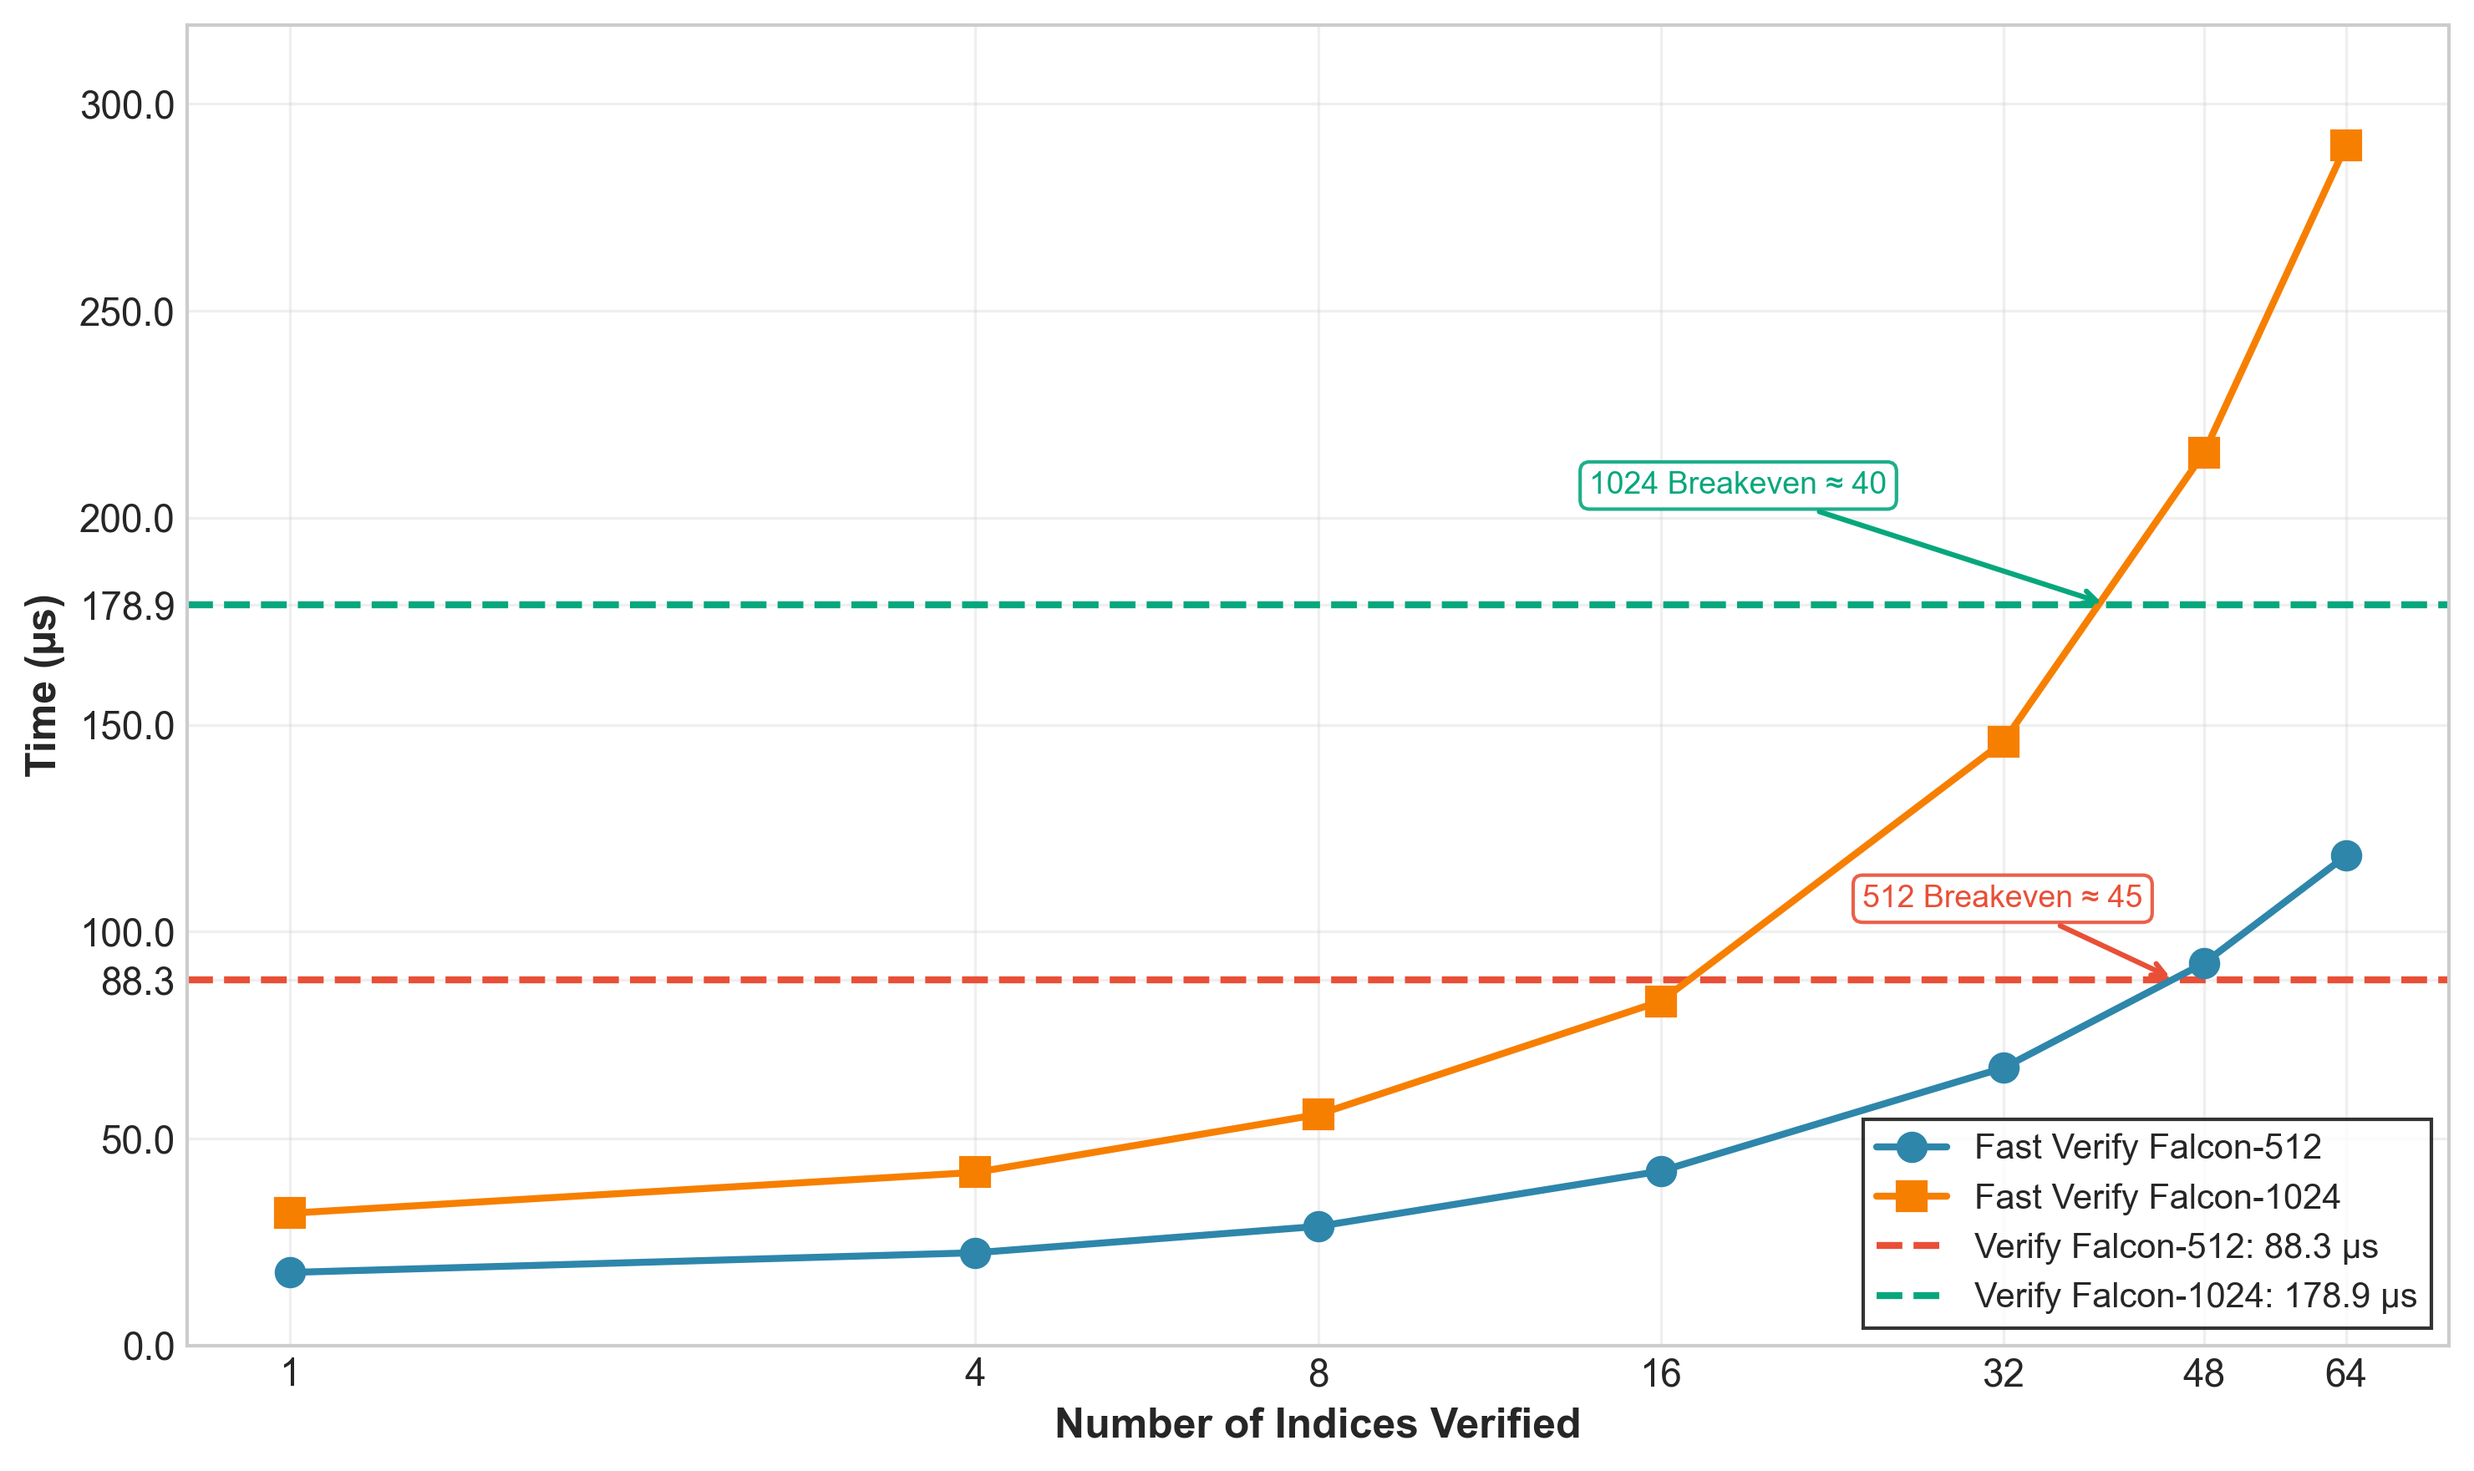
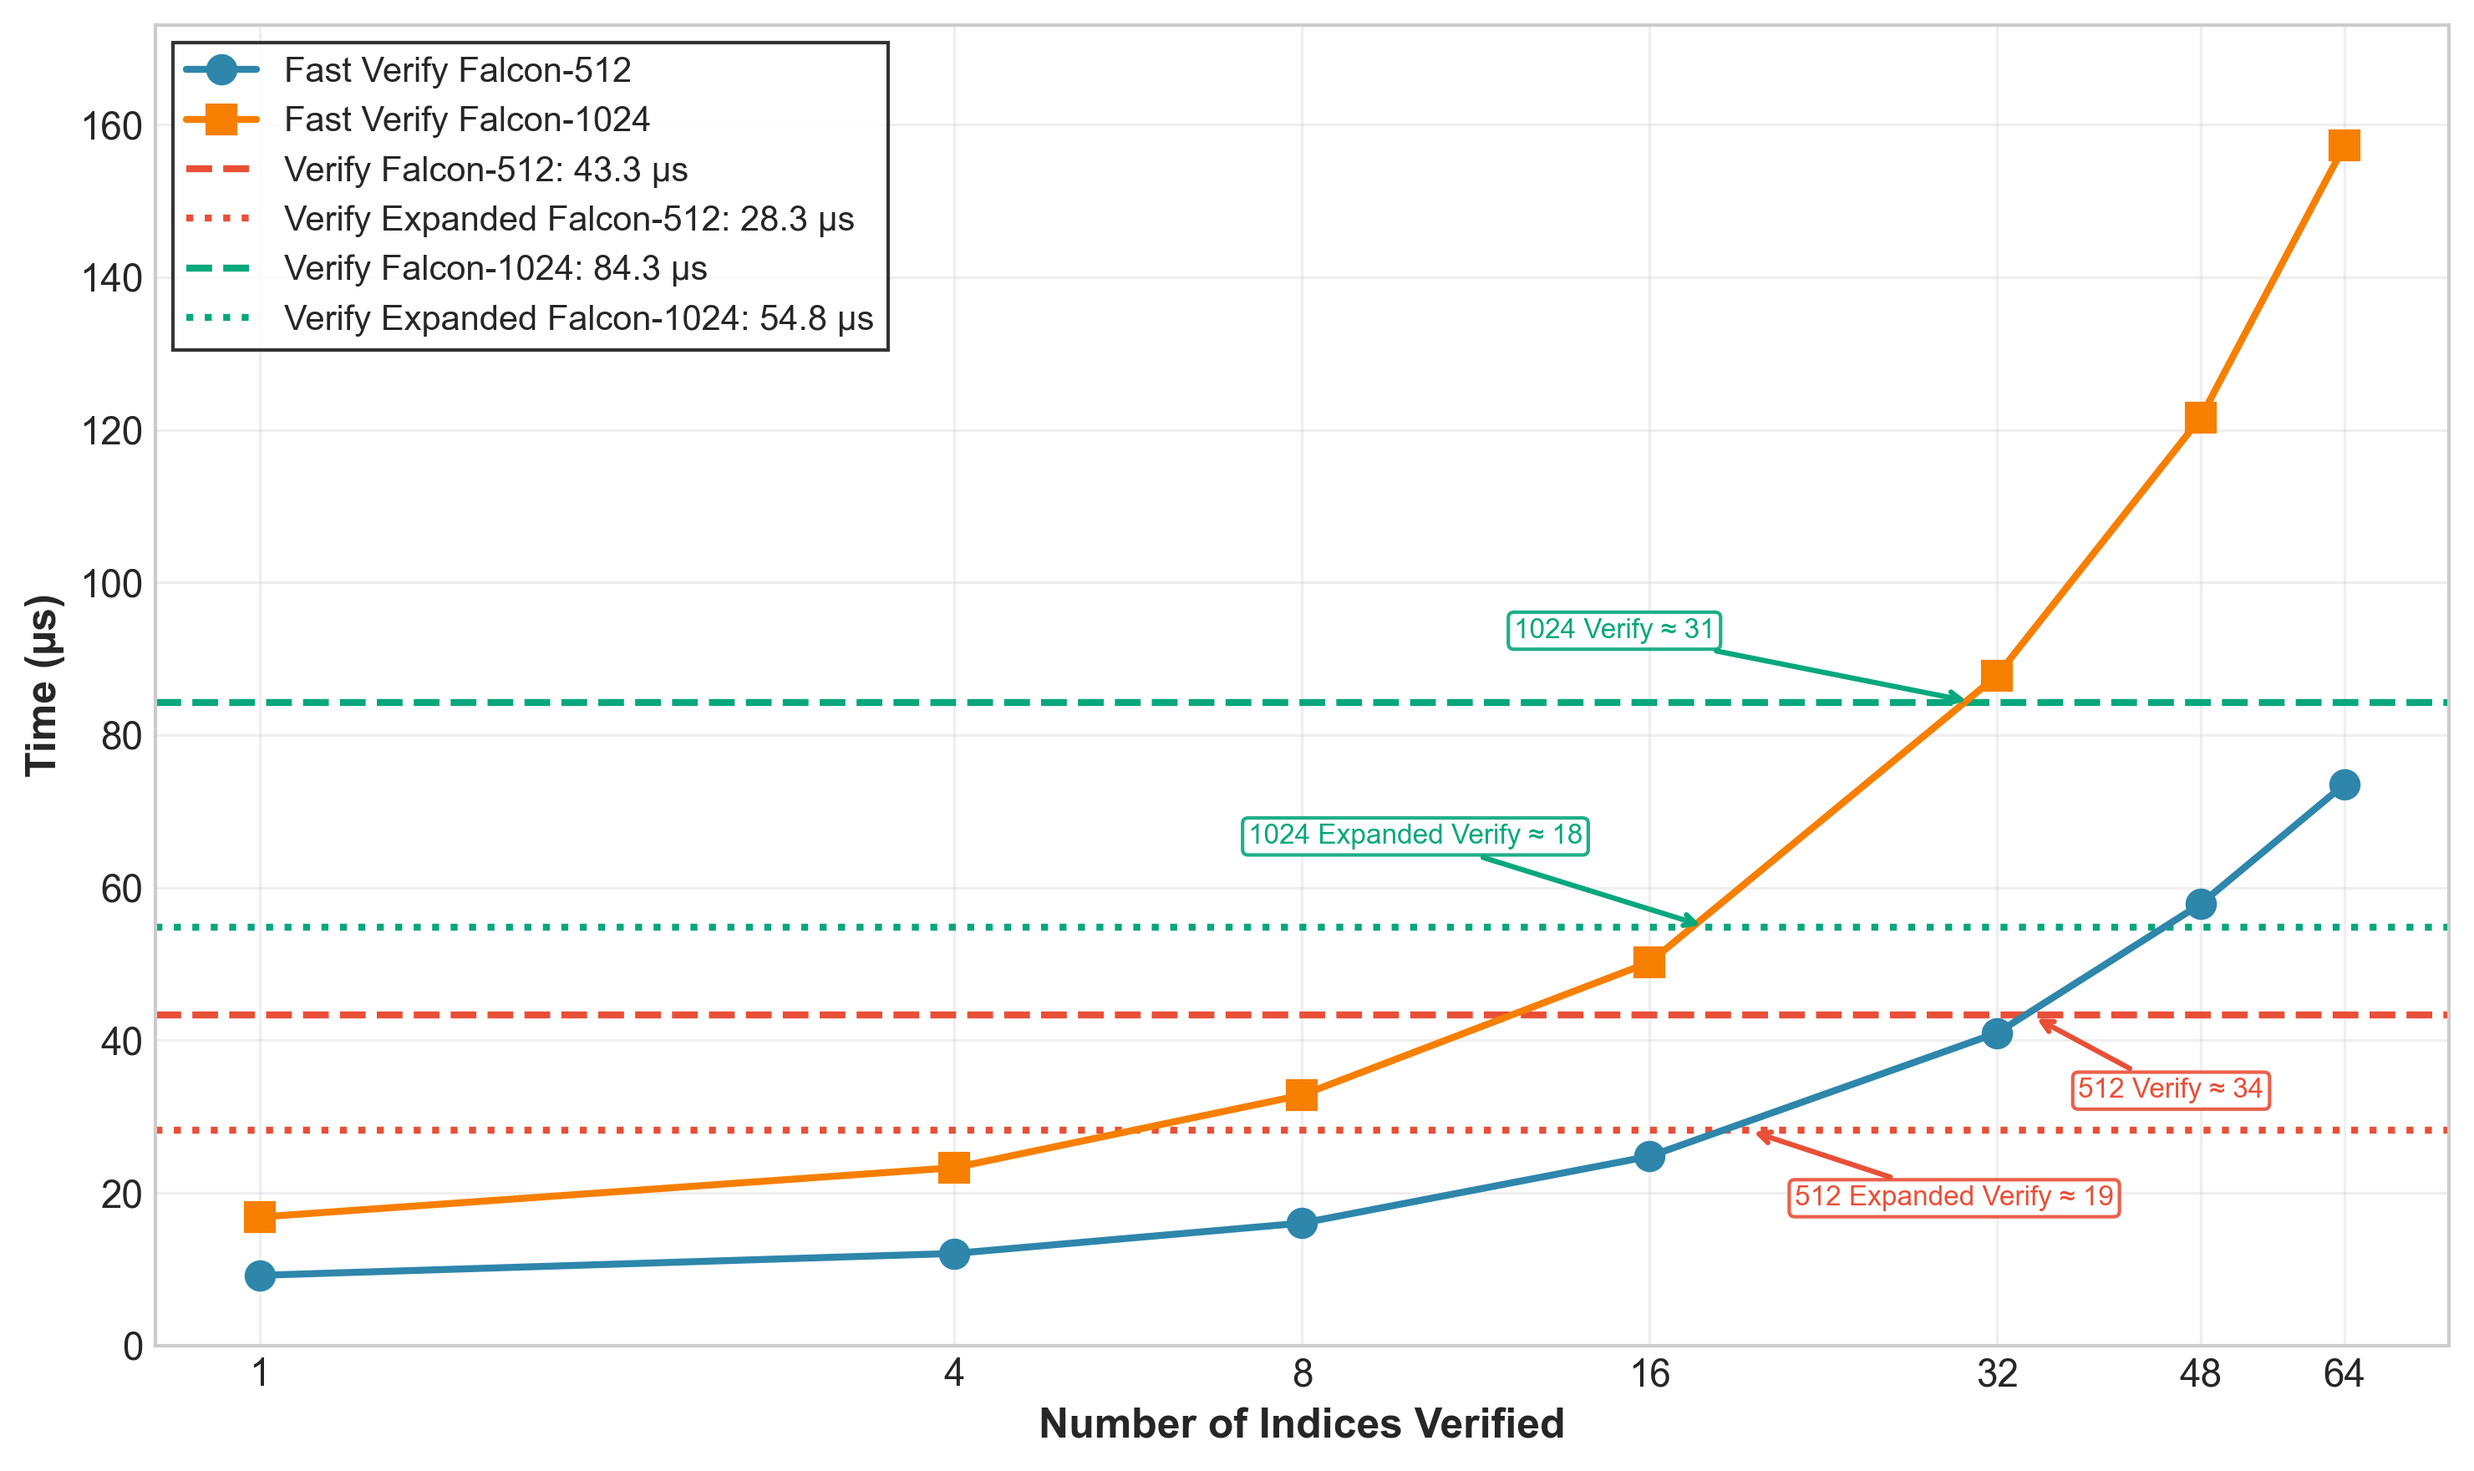
added expanded verify lines

diff --git a/plotting/plot_fverify_benchmark.py b/plotting/plot_fverify_benchmark.py
@@ -93,6 +93,16 @@ def main():
     verify_1024_path = criterion_dir / "falcon-rust" / "verify 1024"
     verify_1024 = load_criterion_estimate(verify_1024_path)
     print(f"verify 1024: {verify_1024['mean']/1000:.2f} µs")
+
+    # Load baseline verify 512 expanded
+    verify_512_expanded_path = criterion_dir / "falcon-rust" / "verify 512 expanded"
+    verify_512_expanded = load_criterion_estimate(verify_512_expanded_path)
+    print(f"verify 512 expanded: {verify_512_expanded['mean']/1000:.2f} µs")
+
+    # Load baseline verify 1024 expanded
+    verify_1024_expanded_path = criterion_dir / "falcon-rust" / "verify 1024 expanded"
+    verify_1024_expanded = load_criterion_estimate(verify_1024_expanded_path)
+    print(f"verify 1024 expanded: {verify_1024_expanded['mean']/1000:.2f} µs")
     
     # Prepare Falcon-512 data for plotting
     indices_512 = np.array([d["indices"] for d in fverify_512_data])
@@ -104,6 +114,8 @@ def main():
     
     verify_512_mean = verify_512["mean"] / 1000
     verify_1024_mean = verify_1024["mean"] / 1000
+    verify_512_expanded_mean = verify_512_expanded["mean"] / 1000
+    verify_1024_expanded_mean = verify_1024_expanded["mean"] / 1000
     
     # Create the plot
     fig, ax = plt.subplots()
@@ -124,43 +136,81 @@ def main():
     ax.axhline(y=verify_512_mean, color='#E94F37', linestyle='--', linewidth=2,
                label=f'Verify Falcon-512: {verify_512_mean:.1f} µs', zorder=2)
     
+    # Plot verify 512 expanded baseline as horizontal line
+    ax.axhline(y=verify_512_expanded_mean, color='#E94F37', linestyle=':', linewidth=2,
+               label=f'Verify Expanded Falcon-512: {verify_512_expanded_mean:.1f} µs', zorder=2)
+
     # Plot verify 1024 baseline as horizontal line
     ax.axhline(y=verify_1024_mean, color='#06A77D', linestyle='--', linewidth=2,
                label=f'Verify Falcon-1024: {verify_1024_mean:.1f} µs', zorder=2)
+
+    # Plot verify 1024 expanded baseline as horizontal line
+    ax.axhline(y=verify_1024_expanded_mean, color='#06A77D', linestyle=':', linewidth=2,
+               label=f'Verify Expanded Falcon-1024: {verify_1024_expanded_mean:.1f} µs', zorder=2)
     
-    # Find and annotate breakeven point for Falcon-512 (linear interpolation)
+    # Find and annotate breakeven points for Falcon-512
+    # 1. Standard Verify
     for i in range(len(means_512) - 1):
         if means_512[i] < verify_512_mean <= means_512[i + 1]:
-            # Linear interpolation to find crossover
             x1, x2 = indices_512[i], indices_512[i + 1]
             y1, y2 = means_512[i], means_512[i + 1]
             breakeven_512 = x1 + (verify_512_mean - y1) * (x2 - x1) / (y2 - y1)
             
-            # Annotate breakeven point (positioned to the left to stay within plot)
-            ax.annotate(f'512 Breakeven ≈ {breakeven_512:.0f}',
+            ax.annotate(f'512 Verify ≈ {breakeven_512:.0f}',
                        xy=(breakeven_512, verify_512_mean),
-                       xytext=(breakeven_512 * 0.53, verify_512_mean * 1.2),
-                       fontsize=9, color='#E94F37',
+                       xytext=(breakeven_512 * 1.1, verify_512_mean * 0.75),
+                       fontsize=8, color='#E94F37',
                        arrowprops=dict(arrowstyle='->', color='#E94F37', lw=1.5),
-                       bbox=dict(boxstyle='round,pad=0.3', facecolor='white', 
+                       bbox=dict(boxstyle='round,pad=0.2', facecolor='white', 
+                                edgecolor='#E94F37', alpha=0.9))
+            break
+            
+    # 2. Expanded Verify
+    for i in range(len(means_512) - 1):
+        if means_512[i] < verify_512_expanded_mean <= means_512[i + 1]:
+            x1, x2 = indices_512[i], indices_512[i + 1]
+            y1, y2 = means_512[i], means_512[i + 1]
+            breakeven_512_exp = x1 + (verify_512_expanded_mean - y1) * (x2 - x1) / (y2 - y1)
+            
+            ax.annotate(f'512 Expanded Verify ≈ {breakeven_512_exp:.0f}',
+                       xy=(breakeven_512_exp, verify_512_expanded_mean),
+                       xytext=(breakeven_512_exp * 1.1, verify_512_expanded_mean * 0.65),
+                       fontsize=8, color='#E94F37',
+                       arrowprops=dict(arrowstyle='->', color='#E94F37', lw=1.5),
+                       bbox=dict(boxstyle='round,pad=0.2', facecolor='white', 
                                 edgecolor='#E94F37', alpha=0.9))
             break
     
-    # Find and annotate breakeven point for Falcon-1024 (linear interpolation)
+    # Find and annotate breakeven points for Falcon-1024
+    # 1. Standard Verify
     for i in range(len(means_1024) - 1):
         if means_1024[i] < verify_1024_mean <= means_1024[i + 1]:
-            # Linear interpolation to find crossover
             x1, x2 = indices_1024[i], indices_1024[i + 1]
             y1, y2 = means_1024[i], means_1024[i + 1]
             breakeven_1024 = x1 + (verify_1024_mean - y1) * (x2 - x1) / (y2 - y1)
             
-            # Annotate breakeven point
-            ax.annotate(f'1024 Breakeven ≈ {breakeven_1024:.0f}',
+            ax.annotate(f'1024 Verify ≈ {breakeven_1024:.0f}',
                        xy=(breakeven_1024, verify_1024_mean),
-                       xytext=(breakeven_1024 * 0.35, verify_1024_mean * 1.15),
-                       fontsize=9, color='#06A77D',
+                       xytext=(breakeven_1024 * 0.4, verify_1024_mean * 1.1),
+                       fontsize=8, color='#06A77D',
                        arrowprops=dict(arrowstyle='->', color='#06A77D', lw=1.5),
-                       bbox=dict(boxstyle='round,pad=0.3', facecolor='white', 
+                       bbox=dict(boxstyle='round,pad=0.2', facecolor='white', 
+                                edgecolor='#06A77D', alpha=0.9))
+            break
+            
+    # 2. Expanded Verify
+    for i in range(len(means_1024) - 1):
+        if means_1024[i] < verify_1024_expanded_mean <= means_1024[i + 1]:
+            x1, x2 = indices_1024[i], indices_1024[i + 1]
+            y1, y2 = means_1024[i], means_1024[i + 1]
+            breakeven_1024_exp = x1 + (verify_1024_expanded_mean - y1) * (x2 - x1) / (y2 - y1)
+            
+            ax.annotate(f'1024 Expanded Verify ≈ {breakeven_1024_exp:.0f}',
+                       xy=(breakeven_1024_exp, verify_1024_expanded_mean),
+                       xytext=(breakeven_1024_exp * 0.4, verify_1024_expanded_mean * 1.2),
+                       fontsize=8, color='#06A77D',
+                       arrowprops=dict(arrowstyle='->', color='#06A77D', lw=1.5),
+                       bbox=dict(boxstyle='round,pad=0.2', facecolor='white', 
                                 edgecolor='#06A77D', alpha=0.9))
             break
     
@@ -175,23 +225,12 @@ def main():
     ax.set_xticks(all_indices)
     ax.set_xticklabels(all_indices)
     
-    # Calculate y-axis limits: start from 0, end slightly above max data for tighter fit
-    max_y = max(means_512.max(), means_1024.max(), verify_512_mean, verify_1024_mean) * 1.1  # 10% padding above highest point
-    
-    # Add y-axis ticks at the verify baselines for easy reference
-    yticks = list(ax.get_yticks())
-    yticks.append(verify_512_mean)
-    yticks.append(verify_1024_mean)
-    # Filter ticks to only include those within our desired range
-    yticks = [y for y in yticks if 0 <= y <= max_y]
-    yticks = sorted(set(yticks))  # Remove duplicates and sort
-    ax.set_yticks(yticks)
-    
-    # Set y-axis limits AFTER setting ticks to prevent auto-expansion
+    # Calculate y-axis limits
+    max_y = max(means_512.max(), means_1024.max(), verify_512_mean, verify_1024_mean) * 1.1
     ax.set_ylim(bottom=0, top=max_y)
     
     # Legend with border in bottom right corner
-    ax.legend(loc='lower right', frameon=True, edgecolor='black', fancybox=False)
+    ax.legend(loc='upper left', frameon=True, edgecolor='black', fancybox=False)
     
     # Add grid
     ax.grid(True, alpha=0.3, linestyle='-')

diff --git a/benches/fast_verify.rs b/benches/fast_verify.rs
@@ -70,6 +70,30 @@ pub fn falcon_rust_operation(c: &mut Criterion) {
             iterator_verify_1024 += 1;
         })
     });
+
+    let mut iterator_verify_expanded_512 = 0;
+    group.bench_function("verify 512 expanded", |b| {
+        b.iter(|| {
+            assert!(falcon_rust::falcon512::verify_expanded(
+                &msgs512[iterator_verify_expanded_512 % msgs512.len()],
+                &expanded_sigs512[iterator_verify_expanded_512 % expanded_sigs512.len()],
+                &keys512[iterator_verify_expanded_512 % NUM_KEYS].1,
+            ));
+            iterator_verify_expanded_512 += 1;
+        })
+    });
+
+    let mut iterator_verify_expanded_1024 = 0;
+    group.bench_function("verify 1024 expanded", |b| {
+        b.iter(|| {
+            assert!(falcon_rust::falcon1024::verify_expanded(
+                &msgs1024[iterator_verify_expanded_1024 % msgs1024.len()],
+                &expanded_sigs1024[iterator_verify_expanded_1024 % expanded_sigs1024.len()],
+                &keys1024[iterator_verify_expanded_1024 % NUM_KEYS].1,
+            ));
+            iterator_verify_expanded_1024 += 1;
+        })
+    });
     group.finish();
 
     let mut group = c.benchmark_group("falcon-rust");
